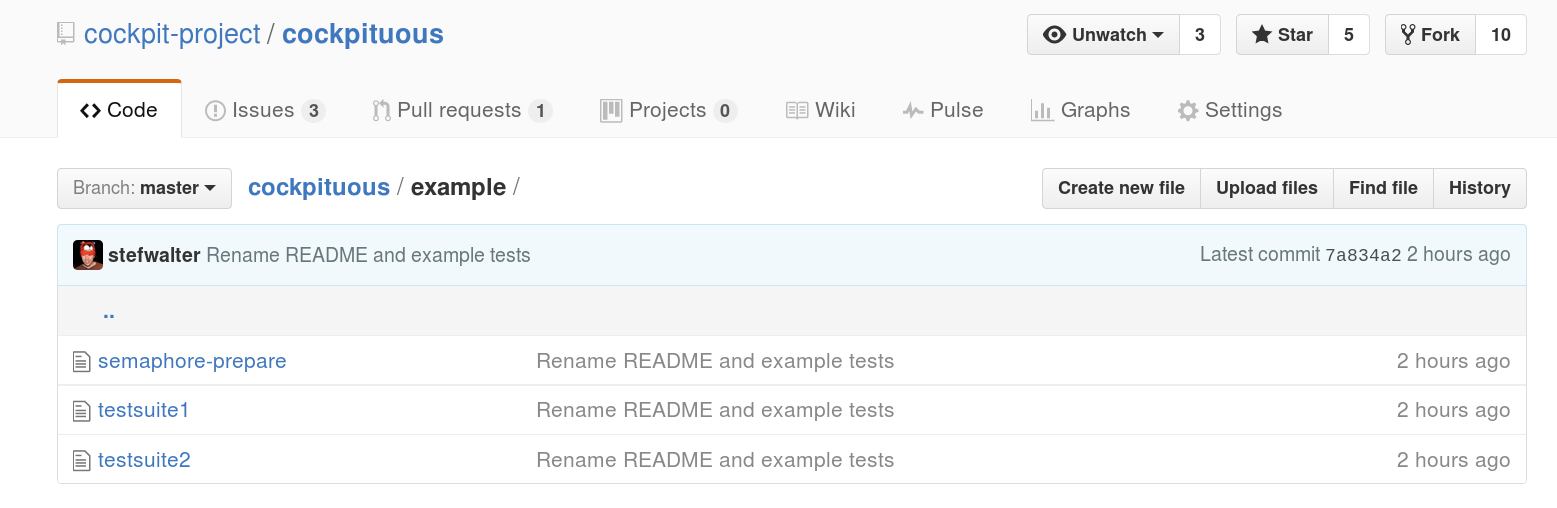
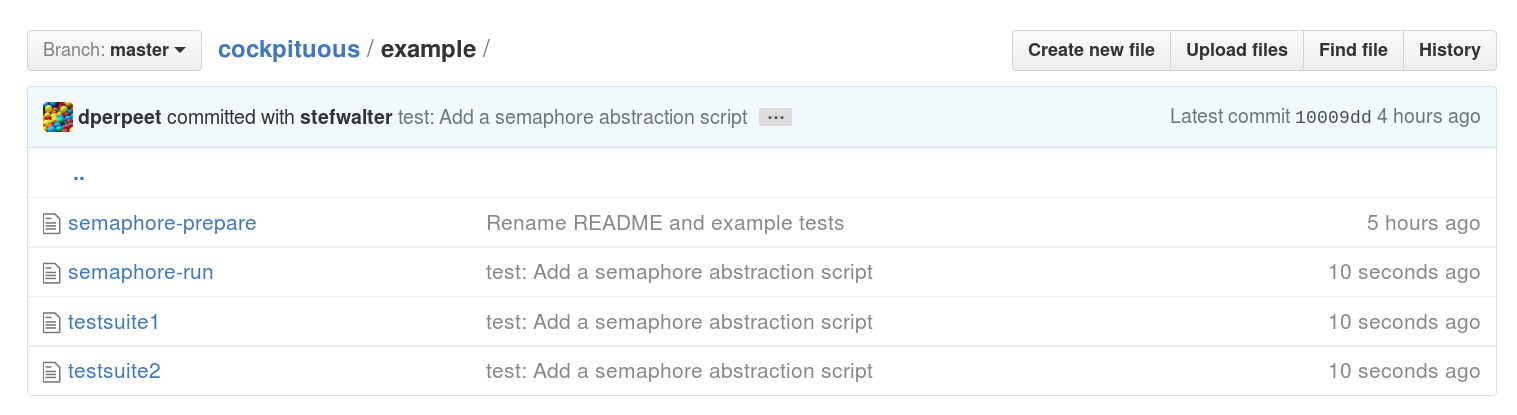
More last minute tweaks

diff --git a/sustainable-ci/index.html b/sustainable-ci/index.html
@@ -12,10 +12,6 @@
 <body>
 
 <!--
-	TODO: Credits
-	TODO: Title slide
-	TODO: Finish up commands
-	TODO: Bring in new screenshots
 	TODO: Overpass mono
 	Fontawesome Font
 -->
@@ -23,7 +19,7 @@
 <div class="reveal">
 <div class="slides">
 
-	<section>
+	<section data-state="title">
 		<h2>Self-sustaining Agile<br>in <strong>your project</strong></h2>
 		<table class="names">
 			<tr>
@@ -81,7 +77,7 @@
 		<h3>Nor...</h3>
 	</section>
 
-	<section>
+	<section data-background-color="white">
 		<img src="noteasy.png">
 	</section>
 
@@ -127,7 +123,8 @@
 		<h3>Focus on your network of people</h3>
 	</section>
 
-	<section data-background="ghosthug.gif" data-background-size="contain">
+	<section data-background="ghosthug.gif" data-background-color="white"
+		data-background-size="contain">
 		<aside class="notes">
 			<ul>
 				<li>Communication is the core of all things Agile. </li>
@@ -151,7 +148,7 @@
 
 	</section>
 
-	<section>
+	<section data-background-color="white">
 		<img style="width: 100%" src="team.png">
 	</section>
 
@@ -221,7 +218,7 @@
 		<h2><strong>What:</strong> In action<br><strong>How:</strong> In your project</h2>
 	</section>
 
-	<section>
+	<section data-background-color="white">
 		<img src="What-Meme.jpg">
 	</section>
 
@@ -520,7 +517,7 @@
 		<h2 style="color: white; padding-top: 7em;">Hackfest Room C236</h2>
 	</section>
 
-	<section>
+	<section data-background-color="white">
 		<img src="How-Meme.jpg">
 	</section>
 
@@ -596,6 +593,7 @@
 			<li>Schedule your tests</li>
 			<li>Hide the results</li>
 			<li>Test after you merge</li>
+			<li>Rewrite all existing tests</li>
 		</ul>
 	</section>
 
@@ -857,14 +855,13 @@ $ <strong>release-bodhi -p my-project-0.2-1.srpm F25</strong>
 		</ol>
 	</section>
 
-	<section>
+	<section data-state="title">
 		<h2><strong>Questions?
 			<br><br>
 			Hackfest: Room C236</strong></h2>
-		<p><strong>github.com/cockpit-project/cockpituous</strong></p>
+		<h4><strong>github.com/cockpit-project/cockpituous</strong></h4>
 
 		<p>&nbsp;</p>
-<<<<<<< HEAD
 
 		<p class="credits">Credits: <strong>striatic</strong> on Flickr,
 		<strong>Alex Bader</strong> on Flickr,
@@ -873,10 +870,7 @@ $ <strong>release-bodhi -p my-project-0.2-1.srpm F25</strong>
 		<strong>dvids</strong> on Flickr,
 		<strong>valkyrieh116</strong> on Flickr,
 		<strong>Aquilae</strong> on Wikipedia,
-		Memegenerator</p>
-=======
-		<p>Credits: <strong>striatic</strong> on Flicker, <strong>Aquilae</strong> on Wikipedia, Imgflp, memegenerator</p>
->>>>>>> b3860a6... updating jen's slides
+		Imgflp, Memegenerator</p>
 		<aside class="notes">
 			<ul>
 			</ul>

diff --git a/sustainable-ci/slides.css b/sustainable-ci/slides.css
@@ -3,7 +3,7 @@
 @import url('../reveal/lib/css/zenburn.css');
 
 body {
-	/* background-image: url('light-background-summit.svg'); */
+	background-image: url('light-background-summit.svg');
 	background-repeat: no-repeat;
 	background-size: cover;
 	background-position: 50% 50%;
@@ -162,6 +162,7 @@ html.head .reveal section strong {
 }
 
 html.code body {
+	background-image: none;
 	background-color: #262626;
 }
 
@@ -182,6 +183,30 @@ html.code .reveal pre strong {
 
 html.code .reveal pre span {
 	color: #6495ed;
+}
+
+html.title body {
+	background-image: url('title-background.svg');
+}
+
+html.title .reveal {
+	background-image: url('redhat.png');
+	background-repeat: no-repeat;
+	background-position: 90% 90%;
+}
+
+html.title h2,
+html.title h4 {
+	color: #ccc;
+}
+
+html.title h2 strong {
+	color: white;
+}
+
+html.title p,
+html.title table {
+	color: #222;
 }
 
 html .reveal p.credits {
